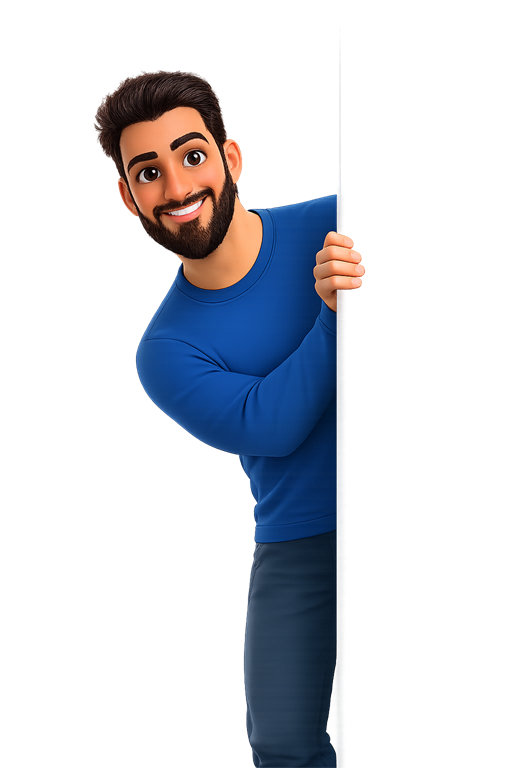
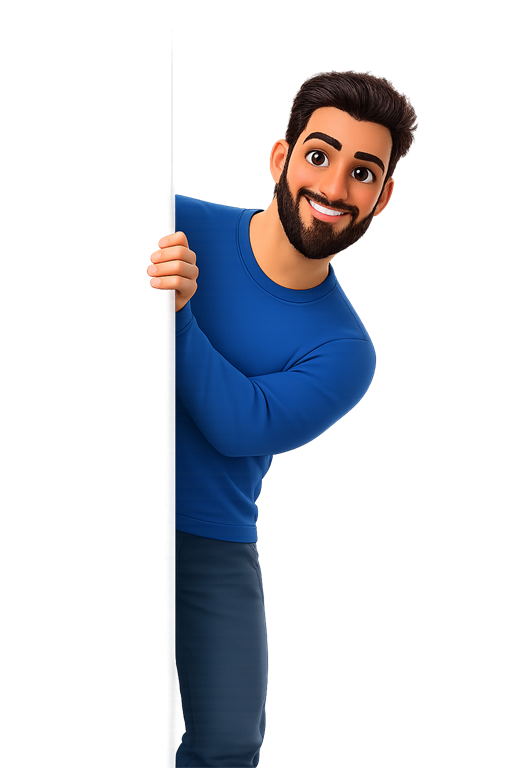
Video screens: characters peek in from behind the slide edges (directions from the assets folder)

Changed region(s): [[0.1875, 0.0938, 0.8125, 1.0]]

diff --git a/js/app.js b/js/app.js
@@ -161,12 +161,13 @@
       <p class="warmup-outro">${s.outro}</p>
     </div>`;
 
-  /* TV room ("רקע לסרטון חדש"): Adam peeks in at the left edge of the screen and Aya (mirrored) at the right edge,
-     as in the client's reference: hands at x≈130 / x≈1018, heads at y≈200 / y≈230, bodies running off the stage.
-     Canvas 512×768 shown at 400×600. */
+  /* TV room ("רקע לסרטון חדש"): the characters peek in from behind the edges of the slide itself (client reference).
+     Both images are used in the directions supplied in the assets folder: Adam's body cut line (x≈176 of the 512px
+     image) sits on the left edge, his hand gripping it; Aya's cut line (x 357) sits on the right edge.
+     Canvas 512×768 shown at 369×553 (×0.72). */
   const tvPair = () => `
-    <img class="char peek ${A("fly-l", 300)}" src="${IMG}adam-peek.png" alt="אדם מציץ ומחייך" style="${pos(-78, 143, 400, 600)}">
-    <img class="char peek ${A("fly-r", 400)}" src="${IMG}aya-peek.png" alt="איה מציצה ומחייכת" style="${pos(917, 176, 400, 600)}">`;
+    <img class="char peek ${A("fly-l", 300)}" src="${IMG}adam-peek.png" alt="אדם מציץ מקצה המסך ומחייך" style="${pos(-129, 153, 369, 553)}">
+    <img class="char peek ${A("fly-r", 400)}" src="${IMG}aya-peek.png" alt="איה מציצה מקצה המסך ומחייכת" style="${pos(943, 183, 369, 553)}">`;
   // play button drawn as a vector (the 68×47 PNG pixelates when scaled) – same look: cyan rounded box, white triangle
   const PLAY_ICON = `<svg viewBox="0 0 68 47" aria-hidden="true"><rect x="0" y="0" width="68" height="47" rx="12" fill="#5BCCE0"/><path d="M27 14.5v18l15-9z" fill="#FFFFFF"/></svg>`;
 
